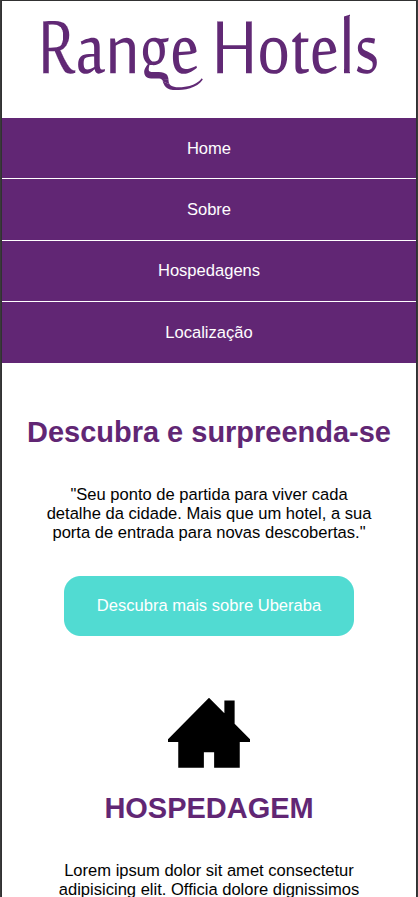
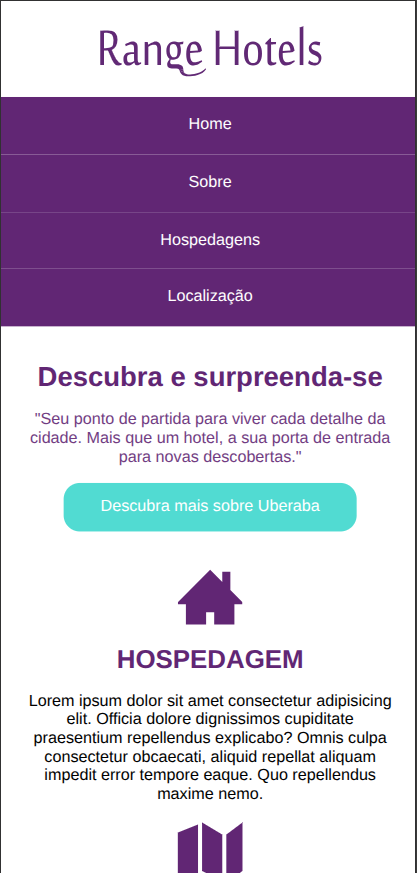
Feat: Finalização

Changed region(s): [[0.0, 0.0, 0.9976, 1.0]]

diff --git a/CSS/index.css b/CSS/index.css
@@ -110,10 +110,39 @@
 
     .pontos-titulo{
         width: 100%;
+        font-size: 4rem;
     }
 
     .pontos-cartao{
         min-width: 25rem;
         max-height: 30rem;
+        display: flex;
+        flex-direction: column;
+        transition: scale .5s ease-in-out;
+    }
+
+    .pontos-cartao:hover{
+        scale: 1.1;
+    }
+
+    .ponto-imagem{
+        flex-grow: 1;
+    }
+
+    .foot p, .foot p a{
+        font-size: 2rem;
+    }
+
+    .foot p a[href="https://serliv.com/"]{
+        color: var(--ciano);
+    }
+
+    .foot p a{
+        text-decoration: none;
+        transition: color .5s ease-in-out;
+    }
+
+    .foot p a:hover{
+        color: color-mix(in srgb, var(--roxo) 80%, var(--branco) 20%);
     }
 }
